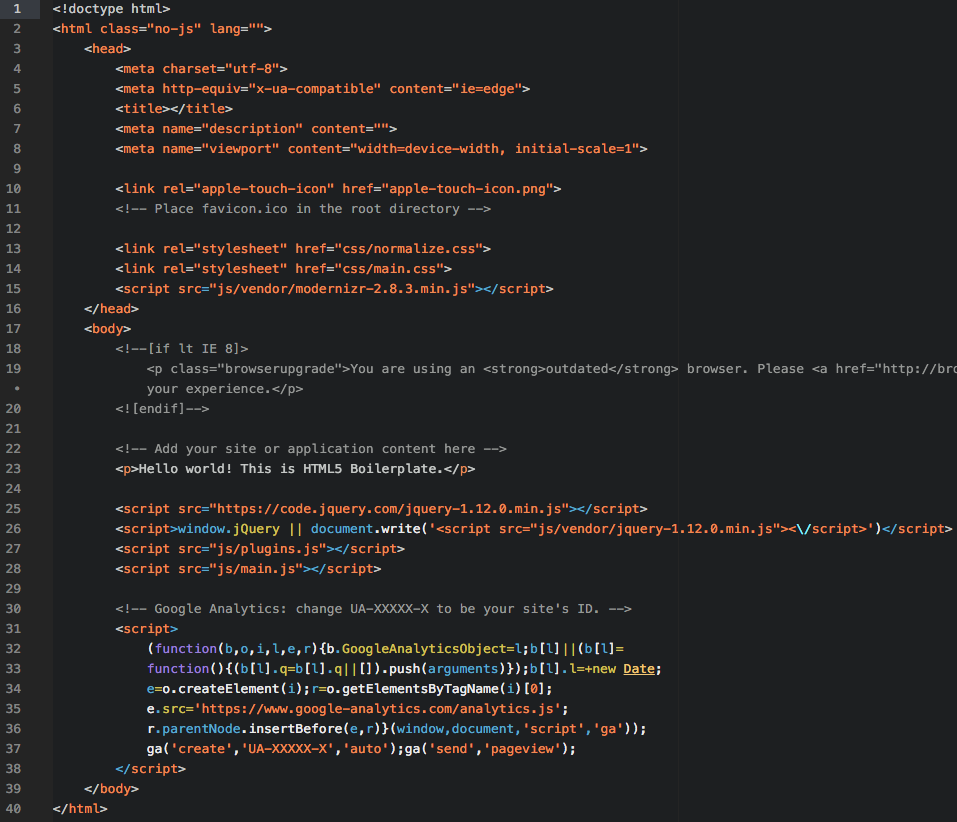
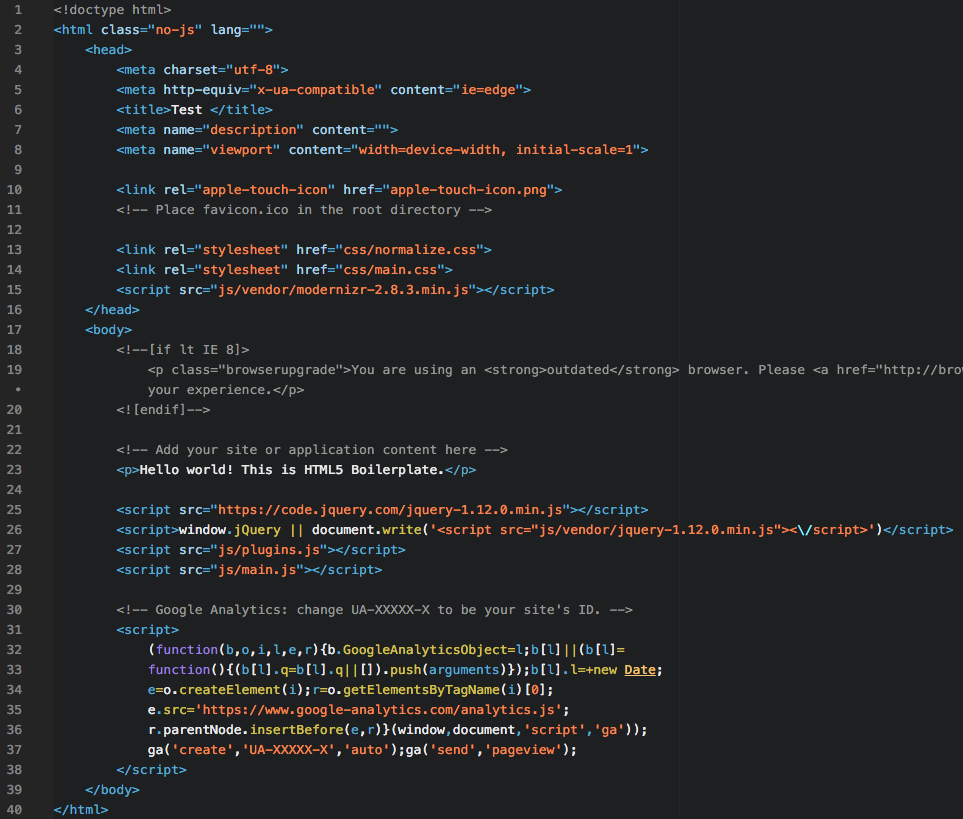
Add correct HTML colour shceme

diff --git a/styles/base.less b/styles/base.less
@@ -66,6 +66,14 @@ atom-text-editor .search-results .marker.current-result .region,
   &.js {
     color: @blue;
   }
+
+  .support {
+    color: @white;
+
+    &.function {
+      color: @yellow;
+    }
+  }
 }
 
 .propery-name {
@@ -171,6 +179,10 @@ atom-text-editor .search-results .marker.current-result .region,
       color: @white;
     }
 
+    &.tag {
+      color: @blue;
+    }
+
     &.heading,
     &.identity {
       color: @blue;
@@ -188,6 +200,12 @@ atom-text-editor .search-results .marker.current-result .region,
 
     &.bracket {
       color: @white;
+    }
+
+    &.string {
+      &.html {
+        color: @blue;
+      }
     }
   }
 
@@ -232,11 +250,11 @@ atom-text-editor .search-results .marker.current-result .region,
   }
 
   &.name.tag {
-    color: @orange;
+    color: @blue;
   }
 
   &.other.attribute-name {
-    color: @orange;
+    color: lighten(@blue, 20%);
 
     &.id {
       color: @blue;
@@ -288,6 +306,28 @@ atom-text-editor .search-results .marker.current-result .region,
         color: @white;
       }
     }
+  }
+
+  &.tag {
+    &.html {
+      color: @blue;
+
+      &.doctype {
+        color: @light-gray;
+      }
+
+      &.sgml {
+        .definition.tag {
+          color: @light-gray;
+        }
+      }
+    }
+  }
+}
+
+.text {
+  &.basic {
+    color: @white;
   }
 }
 
